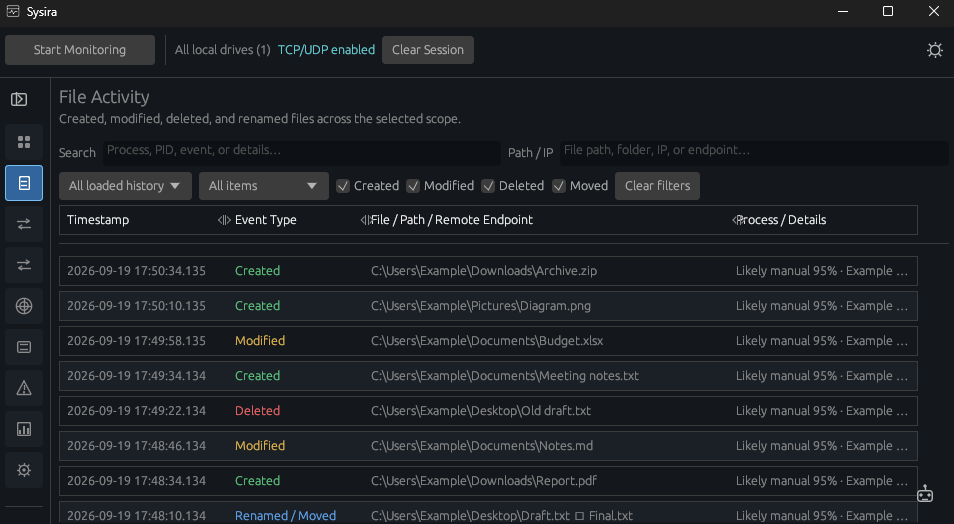
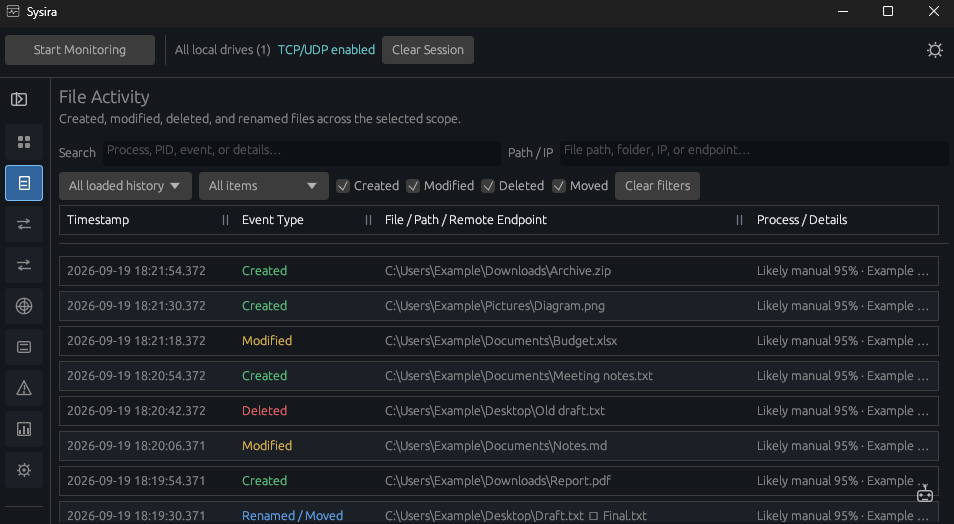
Refresh column-grip screenshots for v3.2.2

diff --git a/README.md b/README.md
@@ -5,7 +5,7 @@
 <p align="center">A Windows desktop app for reviewing file changes, moves, network connections, Windows activity, and security alerts in one place.</p>
 
 <p align="center">
-  <a href="https://github.com/promptedteam/Sysira/releases/latest"><img alt="Release v3.2.1" src="https://img.shields.io/badge/release-v3.2.1-2563eb"></a>
+  <a href="https://github.com/promptedteam/Sysira/releases/latest"><img alt="Release v3.2.2" src="https://img.shields.io/badge/release-v3.2.2-2563eb"></a>
   <a href="https://github.com/promptedteam/Sysira/releases/latest"><img alt="Downloads available" src="https://img.shields.io/badge/downloads-available-2ea44f"></a>
   <img alt="Windows 10 and 11" src="https://img.shields.io/badge/Windows-10%20%7C%2011-334155">
   <img alt="Architecture x64" src="https://img.shields.io/badge/Architecture-x64-334155">
